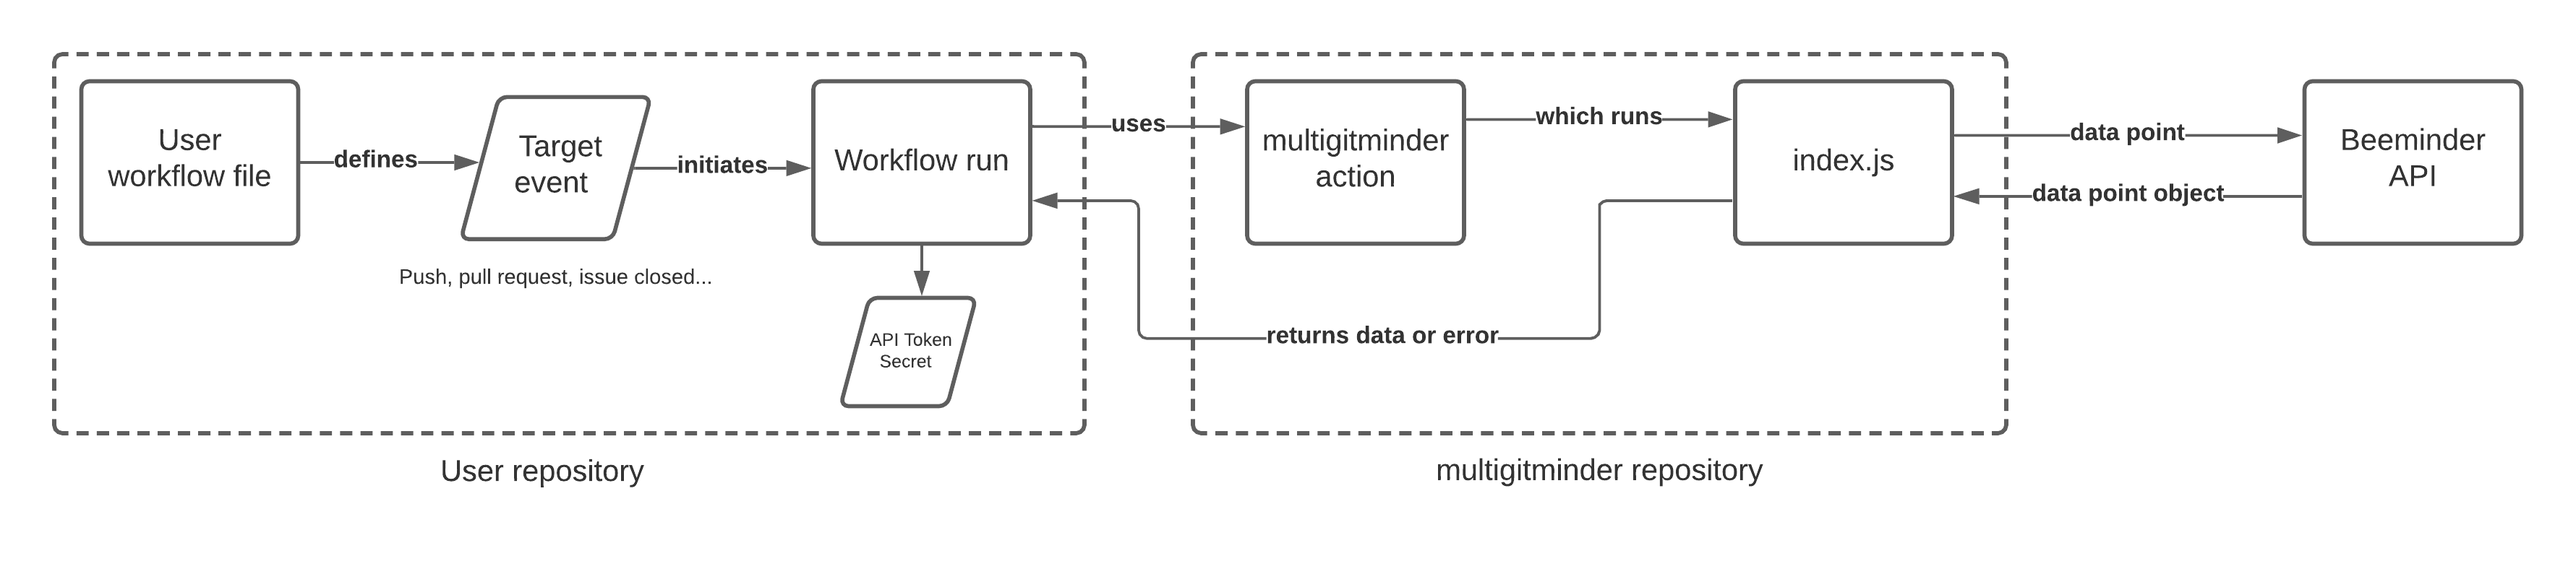
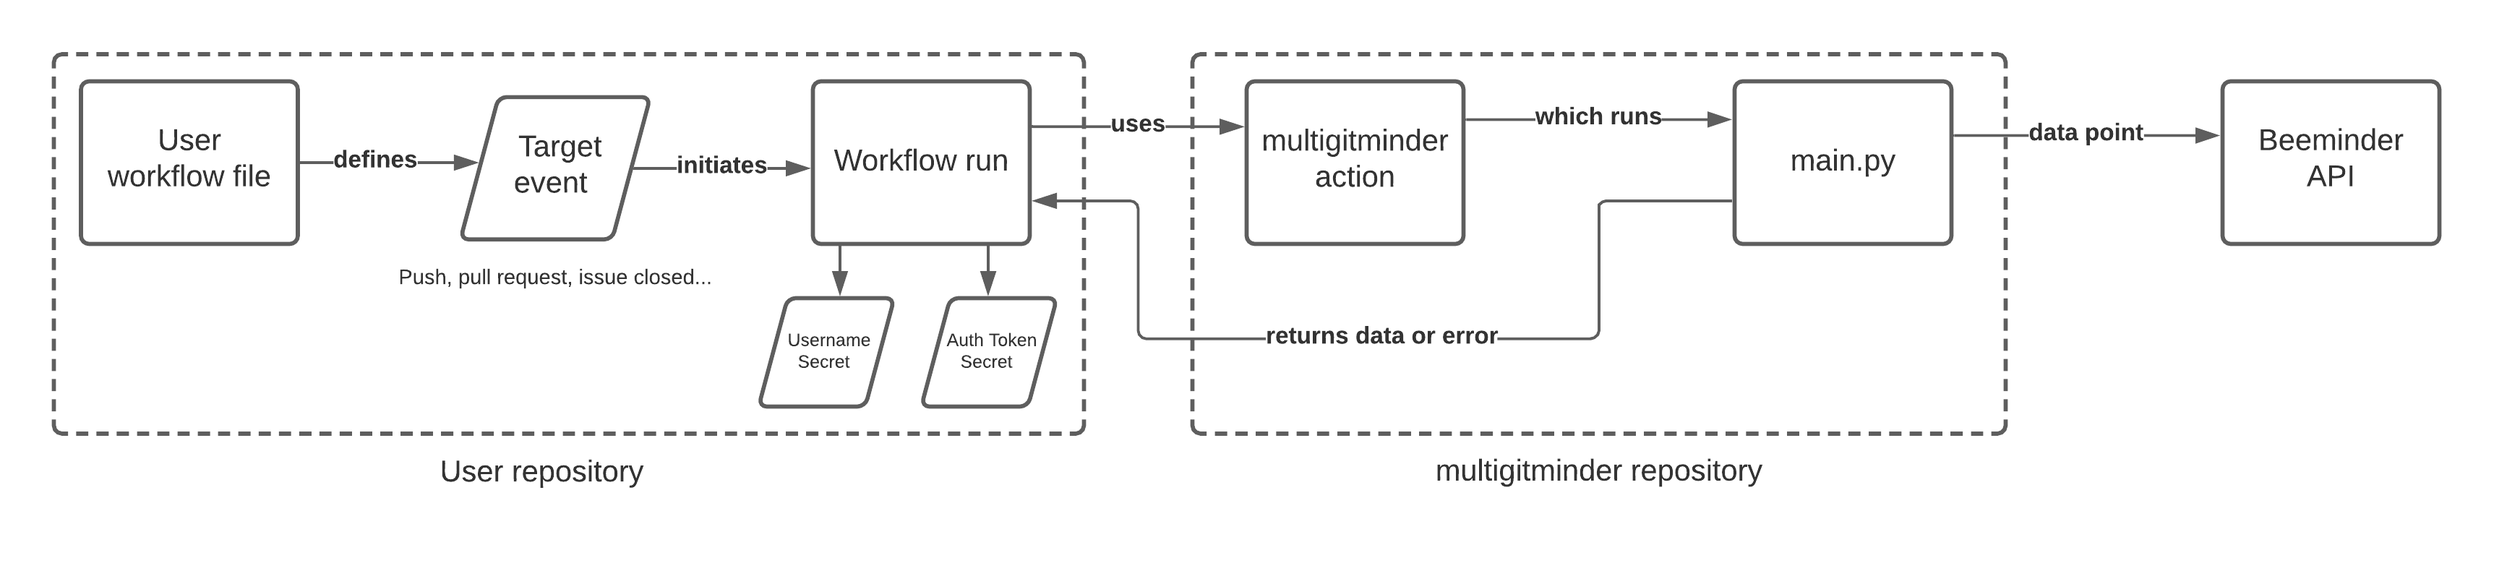
fix: README edits, updated diagram, updated print message to include timestamp

diff --git a/main.py b/main.py
@@ -32,15 +32,15 @@ def main():
         print('Error: Data value not found.')
         return
 
-    # If comment is not provided, use default
-    if (comment is None or len(comment) == 0):
-        print('Comment not provided. Using default comment.')
-        comment = 'via multigitminder API call at ' + datetime.now().strftime("%Y-%m-%d %H:%M:%S")
-
     # Fail if no value provided.
     if (time is None):
         print('Error: Date time not found.')
         return
+
+    # If comment is not provided, use default
+    if (comment is None or len(comment) == 0):
+        print('Comment not provided. Using default comment.')
+        comment = 'via multigitminder API call at ' + time.strftime("%Y-%m-%d %H:%M:%S")
 
     pyminder = Pyminder(user = user_name, token = auth_token)
 
@@ -53,7 +53,7 @@ def main():
     goal.commit_datapoints()
 
     # Output statement
-    print('Data point of ' + value + ' added to ' + goal_name + ' with comment: ' + comment)
+    print('Data point of ' + value + ' added to ' + goal_name + ' at ' + time.strftime("%Y-%m-%d %H:%M:%S") + ' with comment: ' + comment)
 
 
 if __name__ == "__main__":

diff --git a/README.md b/README.md
@@ -6,9 +6,7 @@ A GitHub Action for logging data points to Beeminder. Configure workflows to tri
 
 ## Rationale
 
-Beeminder's integration with GitHub, `gitminder`, allows Beeminder users to capture their programming activity as data for their Beeminder goals. Though this integration is good, it enforces a 1:1 relationship between repos and goals. `multigitminder` allows Beeminder users to connect any number of repos to any number of active goals.
-
-[ DIAGRAM OF POSSIBLE SETUPS ]
+Beeminder's integration with GitHub, `gitminder`, allows Beeminder users to capture their programming activity as data for their Beeminder goals. Unfortunately, `gitminder` only tracks commit and issues closed in a single repo or across your whole GitHub account. `multigitminder` allows Beeminder users to connect any number of repos to any number of active goals based on [any event supported by GitHub Actions](https://docs.github.com/en/actions/reference/events-that-trigger-workflows).  
 
 ## How it Works
 
@@ -19,7 +17,7 @@ Beeminder's integration with GitHub, `gitminder`, allows Beeminder users to capt
 Implement this action on any repo you own by:
 - Creating a workflow file in a `.github/workflows/` directory (see [examples directory](/examples)).
 - Specifying your goal parameters in the file (see [Inputs](##Inputs) section).
-- Storing your Beeminder authorization token as a secret in the repo.
+- Storing your Beeminder username and authorization token as secrets in the repo.
 
 ## Inputs
 Required
@@ -28,15 +26,14 @@ Required
 - `value` - Numeric value of data point input (default value of 1).
 
 Optional
-- `comment` - Optional comment about the data point.
+- `comment` - Optional comment about the data point (default: 'via multigitminder API call at [ timestamp ]').
 
 ## Outputs
-- `data` - Resulting data object returned by the Beeminder API.
-- `time` - Datetime the data point request was made to the API.
+- Print statement confirming the value, goal, time, and comment of data point sent to Beeminder.
 
 ## Secrets & Environmental Variables
 
-`multigitminder` requires a Beeminder auth token as an input, stored as a secret in your chosen repo(s). For help on how to store a secret in your repo, see the [GitHub Docs](https://docs.github.com/en/actions/reference/encrypted-secrets#creating-encrypted-secrets-for-a-repository).
+`multigitminder` requires a **Beeminder username and auth token** as an input, stored as secrets in your chosen repo(s). For help on how to store a secret in your repo, see the [GitHub Docs](https://docs.github.com/en/actions/reference/encrypted-secrets#creating-encrypted-secrets-for-a-repository).
 
 ## Example Usage
 
@@ -54,14 +51,19 @@ on:
 jobs:
   multigitminder:
     runs-on: ubuntu-latest
+    name: multigitminder
     steps:
-      - uses: actions/checkout@v2
-      - uses: HaydenMacDonald/multigitminder@v1.0.1
+      # Checkout
+      - name: Checkout
+        uses: actions/checkout@v2
+      # multigitminder
+      - name: multigitminder
+        uses: HaydenMacDonald/multigitminder@main
         id: multigitminder
         with:
-          auth_token: ${{ secrets.BEEMINDER_AUTH_TOKEN }}
-          goal: YOUR-GOAL-NAME-HERE
-      - run: echo ${{ steps.multigitminder.outputs.data }}
+          USER_NAME: ${{ secrets.BEEMINDER_USER_NAME }}
+          AUTH_TOKEN: ${{ secrets.BEEMINDER_AUTH_TOKEN }}
+          GOAL: multigitminder
 ```
 
 Log data to a Beeminder goal after pushing to main branch or closing an issue:
